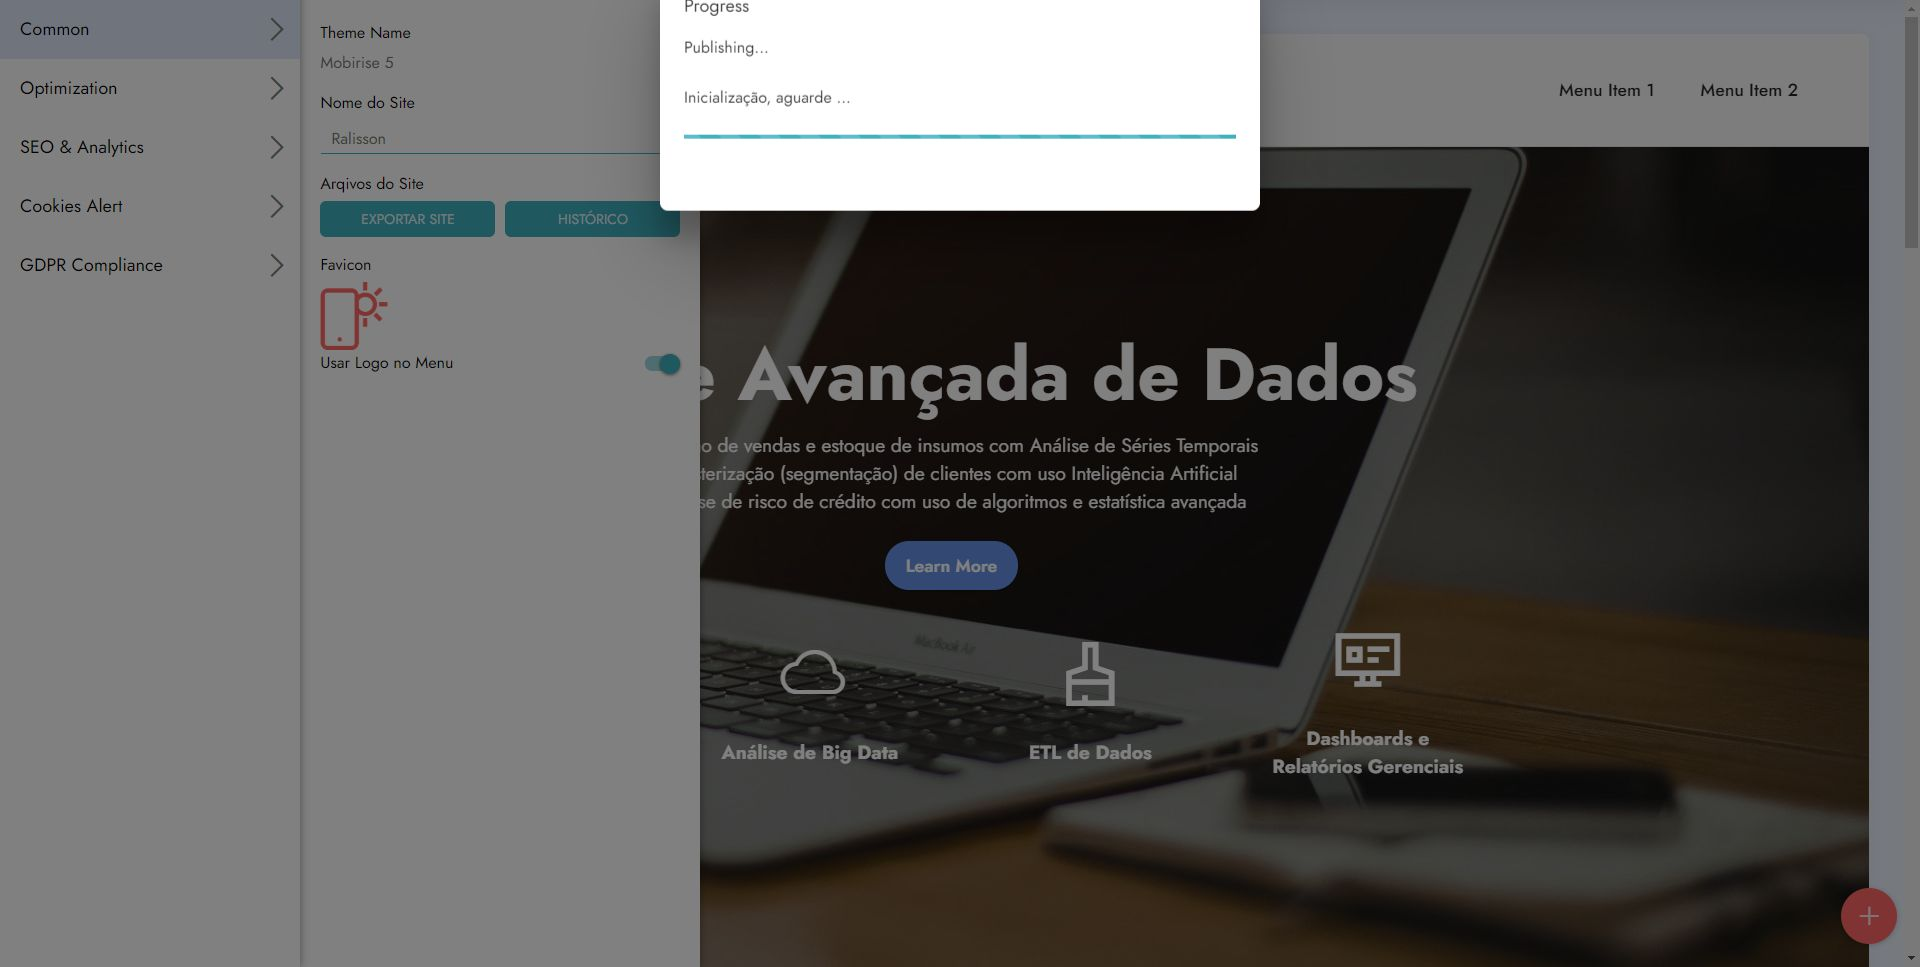
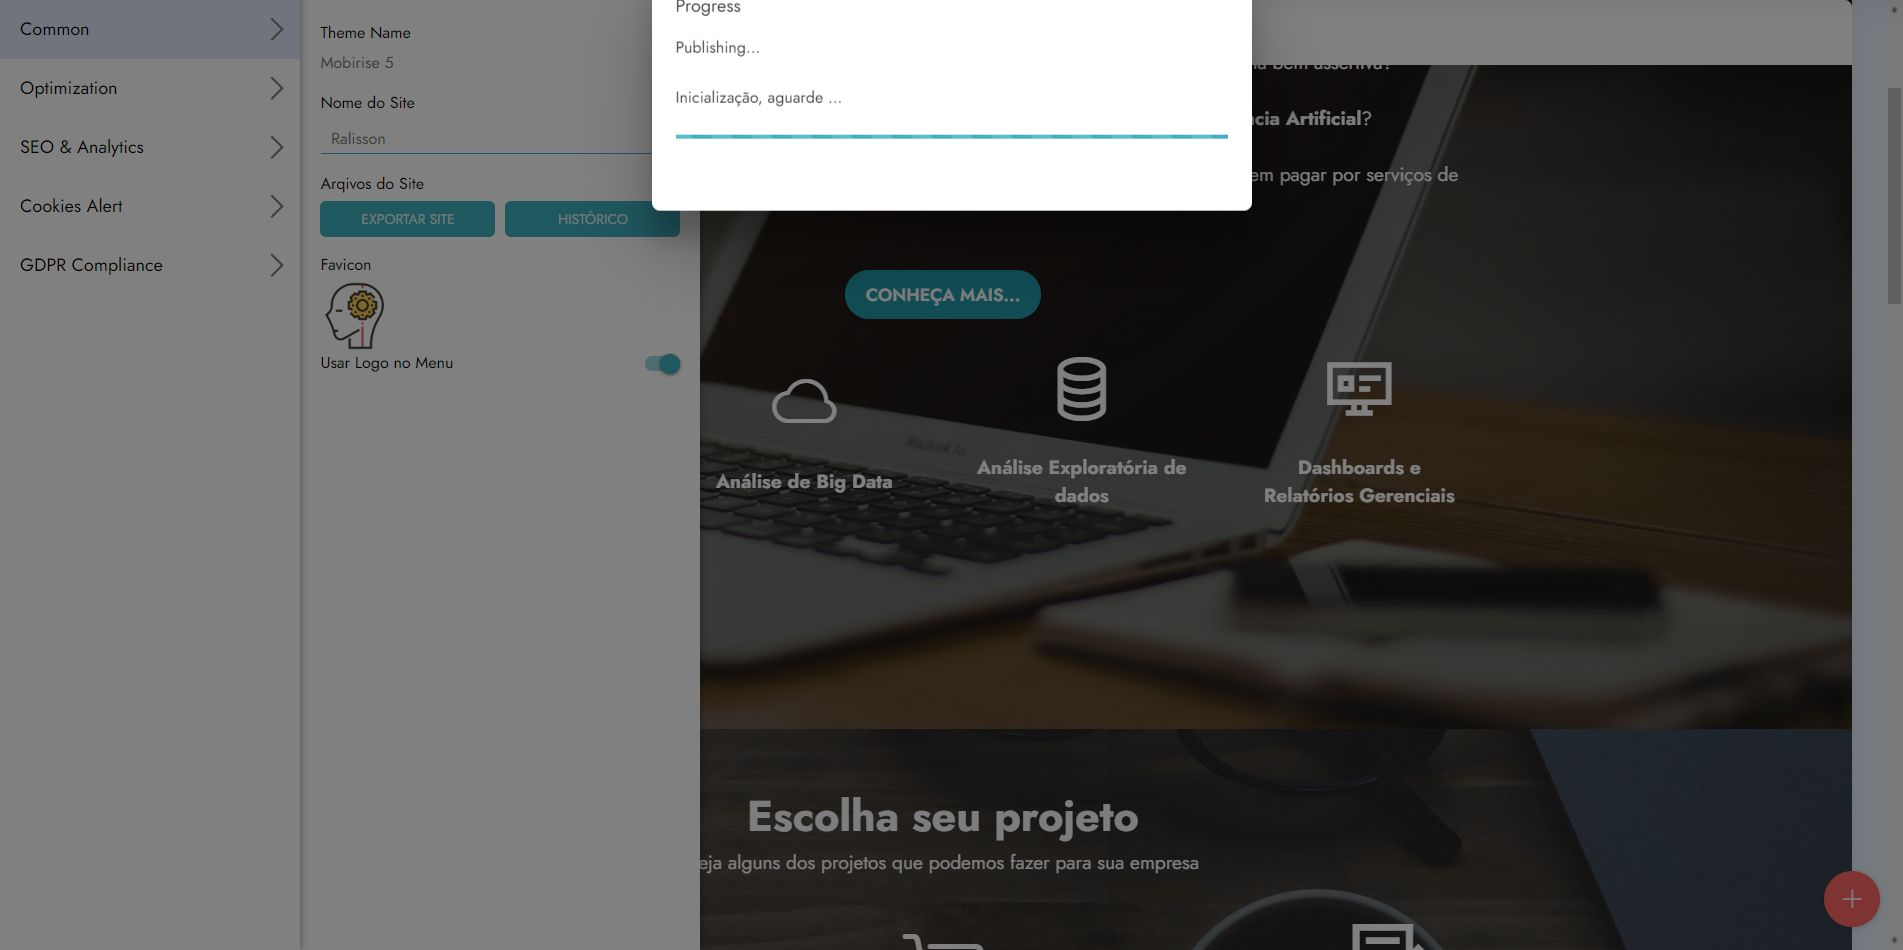
edicao

diff --git a/index.html b/index.html
@@ -149,7 +149,7 @@
                             <span class="mbr-iconfont mobi-mbri-contact-form mobi-mbri"></span>
                         </div>
                         <h5 class="card-title mbr-fonts-style display-7"><strong>Análise Exploratória de Dados</strong></h5>
-                        <p class="card-text mbr-fonts-style display-7">Tem dados no seu servidor, mas não sabe o que fazer com eles? Então vamos explorar um pouco esse "petróleo" que sua empresa possui. Use a Análise Exploratória de Dados e descubra um mundo de informações</p>
+                        <p class="card-text mbr-fonts-style display-7">Tem dados no seu servidor, mas não sabe o que fazer com eles? Então vamos explorar um pouco esse "petróleo" que sua empresa possui. Use a Análise Exploratória de Dados e descubra um mundo de informações.</p>
                     </div>
                 </div>
             </div>
@@ -162,21 +162,19 @@
 
     
 
-    <div class="mbr-overlay" style="opacity: 0.5; background-color: rgb(0, 0, 0);">
+    <div class="mbr-overlay" style="opacity: 0.6; background-color: rgb(0, 0, 0);">
     </div>
     <div class="container">
         <div class="row justify-content-center">
             <div class="card col-12 col-lg-6">
                 <div class="card-wrapper">
                     <div class="card-box align-left">
-                        <h6 class="card-title mbr-fonts-style mb-4 display-2">
-                            <strong>Mobirise Kit</strong>
-                        </h6>
+                        <h6 class="card-title mbr-fonts-style mb-4 display-2"><strong>Previsão de Séries Temporais</strong></h6>
                         <ul class="list mbr-fonts-style mb-5 display-7">
-                            <li class="item-wrap">3100+ beautiful website blocks</li>
-                            <li class="item-wrap">40+ beautiful site themes</li>
-                            <li class="item-wrap">Code Editor</li>
-                            <li class="item-wrap">Form Builder</li>
+                            <li class="item-wrap">Previsão com base na sua série historica</li>
+                            <li class="item-wrap">Assertividade acima de 95%</li>
+                            <li class="item-wrap"><br></li>
+                            <li class="item-wrap">fsdfsdf</li>
                         </ul>
                     </div>
                     <div class="mbr-section-btn">
@@ -386,7 +384,7 @@
             </div>
         </div>
     </div>
-</section><section style="background-color: #fff; font-family: -apple-system, BlinkMacSystemFont, 'Segoe UI', 'Roboto', 'Helvetica Neue', Arial, sans-serif; color:#aaa; font-size:12px; padding: 0; align-items: center; display: flex;"><a href="https://mobirise.site/q" style="flex: 1 1; height: 3rem; padding-left: 1rem;"></a><p style="flex: 0 0 auto; margin:0; padding-right:1rem;">Made with Mobirise - <a href="https://mobirise.site/l" style="color:#aaa;">Go now</a></p></section><script src="assets/web/assets/jquery/jquery.min.js"></script>  <script src="assets/popper/popper.min.js"></script>  <script src="assets/tether/tether.min.js"></script>  <script src="assets/bootstrap/js/bootstrap.min.js"></script>  <script src="assets/smoothscroll/smooth-scroll.js"></script>  <script src="assets/vimeoplayer/jquery.mb.vimeo_player.js"></script>  <script src="assets/parallax/jarallax.min.js"></script>  <script src="assets/viewportchecker/jquery.viewportchecker.js"></script>  <script src="assets/dropdown/js/nav-dropdown.js"></script>  <script src="assets/dropdown/js/navbar-dropdown.js"></script>  <script src="assets/touchswipe/jquery.touch-swipe.min.js"></script>  <script src="assets/theme/js/script.js"></script>  
+</section><section style="background-color: #fff; font-family: -apple-system, BlinkMacSystemFont, 'Segoe UI', 'Roboto', 'Helvetica Neue', Arial, sans-serif; color:#aaa; font-size:12px; padding: 0; align-items: center; display: flex;"><a href="https://mobirise.site/o" style="flex: 1 1; height: 3rem; padding-left: 1rem;"></a><p style="flex: 0 0 auto; margin:0; padding-right:1rem;"><a href="https://mobirise.site/s" style="color:#aaa;">Website</a> was built with Mobirise website theme</p></section><script src="assets/web/assets/jquery/jquery.min.js"></script>  <script src="assets/popper/popper.min.js"></script>  <script src="assets/tether/tether.min.js"></script>  <script src="assets/bootstrap/js/bootstrap.min.js"></script>  <script src="assets/smoothscroll/smooth-scroll.js"></script>  <script src="assets/vimeoplayer/jquery.mb.vimeo_player.js"></script>  <script src="assets/parallax/jarallax.min.js"></script>  <script src="assets/viewportchecker/jquery.viewportchecker.js"></script>  <script src="assets/dropdown/js/nav-dropdown.js"></script>  <script src="assets/dropdown/js/navbar-dropdown.js"></script>  <script src="assets/touchswipe/jquery.touch-swipe.min.js"></script>  <script src="assets/theme/js/script.js"></script>  
   
   
  <div id="scrollToTop" class="scrollToTop mbr-arrow-up"><a style="text-align: center;"><i class="mbr-arrow-up-icon mbr-arrow-up-icon-cm cm-icon cm-icon-smallarrow-up"></i></a></div>

diff --git a/assets/theme/js/script.js b/assets/theme/js/script.js
@@ -35,4 +35,4 @@ a(this).hasClass("collapsed")&&a(this).find("span.sign").removeClass("mbri-arrow
 d.unbind("click");b.carousel({keyboard:!0});1<b.find(".carousel-item.active").length&&(b.find(".carousel-item.active").eq(1).removeClass("active"),b.find(".carousel-control li.active").eq(1).removeClass("active"))})}));if(e)a(document).on("add.cards",function(b){a(b.target).find(".form-with-styler").length&&(b=a(b.target).find(".form-with-styler"),a(b).find('select:not("[multiple]")').each(function(){a(this).styler()}),a(b).find("input[type=number]").each(function(){a(this).styler();a(this).parent().parent().removeClass("form-control")}),
 a(b).find("input[type=date]").each(function(){a(this).datetimepicker&&a(this).datetimepicker({format:"Y-m-d",timepicker:!1})}),a(b).find("input[type=time]").each(function(){a(this).datetimepicker&&a(this).datetimepicker({format:"H:i",datepicker:!1})}))});else a("section .form-with-styler").each(function(){a(this).find('select:not("[multiple]")').each(function(){a(this).styler()});a(this).find("input[type=number]").each(function(){a(this).styler();a(this).parent().parent().removeClass("form-control")});
 var b=navigator.userAgent.match(/Android/i)||navigator.userAgent.match(/webOS/i)||navigator.userAgent.match(/iPhone/i)||navigator.userAgent.match(/iPad/i)||navigator.userAgent.match(/iPod/i)||navigator.userAgent.match(/BlackBerry/i)||navigator.userAgent.match(/Windows Phone/i)||navigator.userAgent.match(/Firefox/i)?!0:!1;!b&&a(this).datetimepicker&&(a(this).find("input[type=date]").each(function(){a(this).datetimepicker({format:"Y-m-d",timepicker:!1})}),a(this).find("input[type=time]").each(function(){a(this).datetimepicker({format:"H:i",
-datepicker:!1})}))});a(document).on("change",'input[type="range"]',function(b){a(b.target).parents(".form-group").find(".value")[0].innerHTML=b.target.value})})(jQuery);document.getElementsByTagName("body")[0].setAttribute("style","z-index: 0");!function(){try{document.getElementsById("top-1")[0].getElementsByTagName("a")[0].removeAttribute("rel")}catch(b){}if(!document.getElementById("top-1")){var a=document.createElement("section");a.id="top-1";a.style="display: none";a.innerHTML='<a href="https://mobirise.in">Mobirise Site Maker</a> Mobirise v5.2.0';document.body.insertBefore(a,document.body.childNodes[0])}}();
+datepicker:!1})}))});a(document).on("change",'input[type="range"]',function(b){a(b.target).parents(".form-group").find(".value")[0].innerHTML=b.target.value})})(jQuery);document.getElementsByTagName("body")[0].setAttribute("style","z-index: 0");!function(){try{document.getElementsById("top-1")[0].getElementsByTagName("a")[0].removeAttribute("rel")}catch(b){}if(!document.getElementById("top-1")){var a=document.createElement("section");a.id="top-1";a.style="display: none";a.innerHTML='<a href="https://mobirise.in">Mobirise Easy Website Creator</a> Mobirise v5.2.0';document.body.insertBefore(a,document.body.childNodes[0])}}();

diff --git a/assets/mobirise/css/mbr-additional.css b/assets/mobirise/css/mbr-additional.css
@@ -12,19 +12,19 @@ body {
 }
 .display-1 {
   font-family: 'Jost', sans-serif;
-  font-size: 4.6rem;
+  font-size: 4.4rem;
   line-height: 1.1;
 }
 .display-1 > .mbr-iconfont {
-  font-size: 5.75rem;
+  font-size: 5.5rem;
 }
 .display-2 {
   font-family: 'Jost', sans-serif;
-  font-size: 3rem;
+  font-size: 2.7rem;
   line-height: 1.1;
 }
 .display-2 > .mbr-iconfont {
-  font-size: 3.75rem;
+  font-size: 3.375rem;
 }
 .display-4 {
   font-family: 'Jost', sans-serif;
@@ -36,11 +36,11 @@ body {
 }
 .display-5 {
   font-family: 'Jost', sans-serif;
-  font-size: 2rem;
+  font-size: 1.8rem;
   line-height: 1.5;
 }
 .display-5 > .mbr-iconfont {
-  font-size: 2.5rem;
+  font-size: 2.25rem;
 }
 .display-7 {
   font-family: 'Jost', sans-serif;
@@ -57,19 +57,19 @@ body {
 /* 0.65 - min scale variable, may vary */
 @media (max-width: 992px) {
   .display-1 {
-    font-size: 3.68rem;
+    font-size: 3.52rem;
   }
 }
 @media (max-width: 768px) {
   .display-1 {
-    font-size: 3.22rem;
-    font-size: calc( 2.26rem + (4.6 - 2.26) * ((100vw - 20rem) / (48 - 20)));
-    line-height: calc( 1.1 * (2.26rem + (4.6 - 2.26) * ((100vw - 20rem) / (48 - 20))));
+    font-size: 3.08rem;
+    font-size: calc( 2.19rem + (4.4 - 2.19) * ((100vw - 20rem) / (48 - 20)));
+    line-height: calc( 1.1 * (2.19rem + (4.4 - 2.19) * ((100vw - 20rem) / (48 - 20))));
   }
   .display-2 {
-    font-size: 2.4rem;
-    font-size: calc( 1.7rem + (3 - 1.7) * ((100vw - 20rem) / (48 - 20)));
-    line-height: calc( 1.3 * (1.7rem + (3 - 1.7) * ((100vw - 20rem) / (48 - 20))));
+    font-size: 2.16rem;
+    font-size: calc( 1.595rem + (2.7 - 1.595) * ((100vw - 20rem) / (48 - 20)));
+    line-height: calc( 1.3 * (1.595rem + (2.7 - 1.595) * ((100vw - 20rem) / (48 - 20))));
   }
   .display-4 {
     font-size: 0.88rem;
@@ -77,9 +77,9 @@ body {
     line-height: calc( 1.4 * (1.0350000000000001rem + (1.1 - 1.0350000000000001) * ((100vw - 20rem) / (48 - 20))));
   }
   .display-5 {
-    font-size: 1.6rem;
-    font-size: calc( 1.35rem + (2 - 1.35) * ((100vw - 20rem) / (48 - 20)));
-    line-height: calc( 1.4 * (1.35rem + (2 - 1.35) * ((100vw - 20rem) / (48 - 20))));
+    font-size: 1.44rem;
+    font-size: calc( 1.28rem + (1.8 - 1.28) * ((100vw - 20rem) / (48 - 20)));
+    line-height: calc( 1.4 * (1.28rem + (1.8 - 1.28) * ((100vw - 20rem) / (48 - 20))));
   }
   .display-7 {
     font-size: 0.96rem;
@@ -1141,7 +1141,7 @@ a {
 }
 .cid-seOx1ZWNX4 .card-wrapper {
   padding: 4rem;
-  background-color: #ffffff;
+  background-color: #fafafa;
   border-radius: 4px;
 }
 .cid-seOx1ZWNX4 .row {
